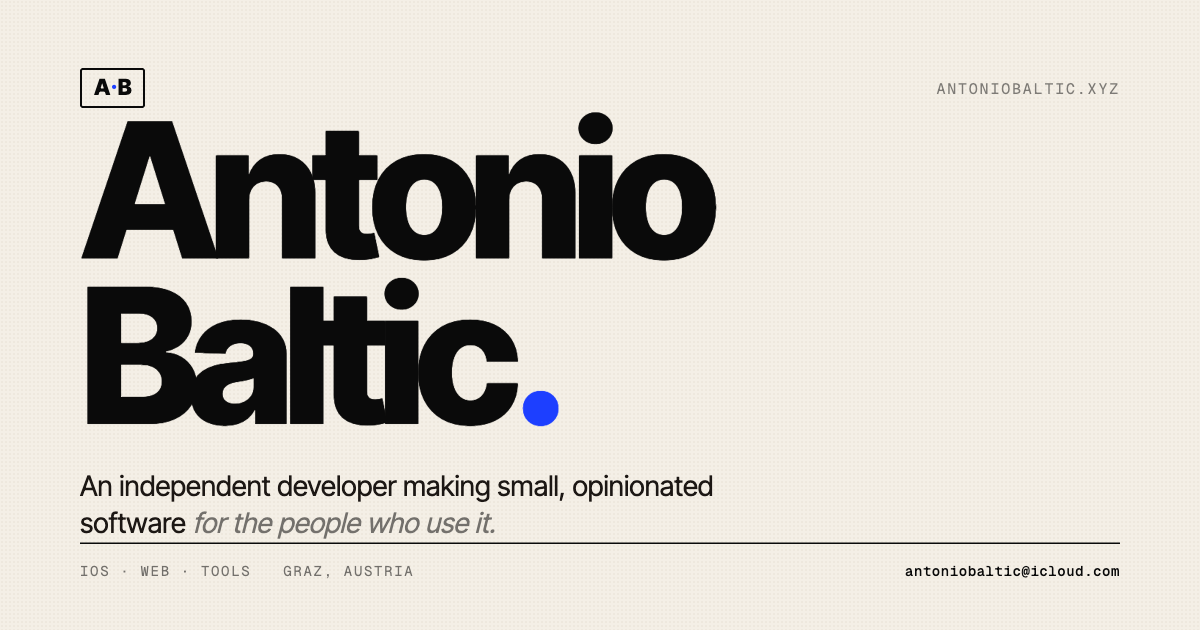
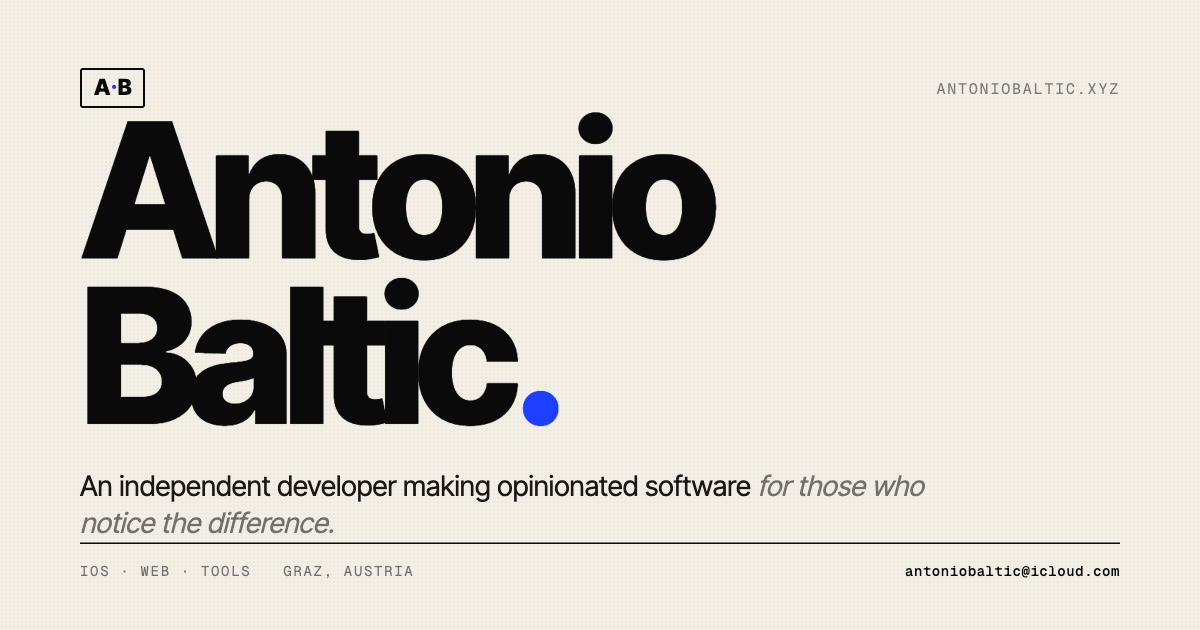
Sync tagline everywhere
Update meta description, og:description, twitter:description, JSON-LD
description, webmanifest description, and the OG image to match the
new hero tagline: "An independent developer making opinionated software
for those who notice the difference."

Changed region(s): [[0.4008, 0.754, 0.7708, 0.8143], [0.0617, 0.8143, 0.4317, 0.8444]]

diff --git a/index.html b/index.html
@@ -4,7 +4,7 @@
   <meta charset="UTF-8">
   <meta name="viewport" content="width=device-width, initial-scale=1.0">
   <title>Antonio Baltic — Portfolio</title>
-  <meta name="description" content="Antonio Baltic — independent developer making small, opinionated software. iOS, web, and tools. Based in Graz, Austria.">
+  <meta name="description" content="Antonio Baltic — independent developer making opinionated software for those who notice the difference. iOS, web, and tools. Based in Graz, Austria.">
   <meta name="author" content="Antonio Baltic">
   <meta name="robots" content="index, follow, max-image-preview:large, max-snippet:-1, max-video-preview:-1">
   <link rel="canonical" href="https://antoniobaltic.xyz/">
@@ -24,7 +24,7 @@
   <!-- Open Graph -->
   <meta property="og:site_name" content="Antonio Baltic">
   <meta property="og:title" content="Antonio Baltic — Portfolio">
-  <meta property="og:description" content="Independent developer making small, opinionated software. iOS, web, and tools.">
+  <meta property="og:description" content="Independent developer making opinionated software for those who notice the difference. iOS, web, and tools.">
   <meta property="og:url" content="https://antoniobaltic.xyz/">
   <meta property="og:type" content="website">
   <meta property="og:locale" content="en_US">
@@ -37,7 +37,7 @@
   <!-- Twitter / X -->
   <meta name="twitter:card" content="summary_large_image">
   <meta name="twitter:title" content="Antonio Baltic — Portfolio">
-  <meta name="twitter:description" content="Independent developer making small, opinionated software. iOS, web, and tools.">
+  <meta name="twitter:description" content="Independent developer making opinionated software for those who notice the difference. iOS, web, and tools.">
   <meta name="twitter:image" content="https://antoniobaltic.xyz/antoniobaltic_ogimage.png">
   <meta name="twitter:image:alt" content="Antonio Baltic — independent developer, iOS · Web · Tools, Graz, Austria">
 
@@ -50,7 +50,7 @@
     "url": "https://antoniobaltic.xyz/",
     "image": "https://antoniobaltic.xyz/antoniobaltic_ogimage.png",
     "jobTitle": "Independent Developer",
-    "description": "Independent developer making small, opinionated software across iOS, web, and tools.",
+    "description": "Independent developer making opinionated software for those who notice the difference. Works across iOS, web, and tools.",
     "email": "mailto:antoniobaltic@icloud.com",
     "address": {
       "@type": "PostalAddress",
@@ -99,7 +99,7 @@
       </h1>
 
       <p class="hero-tag">
-        An independent developer making small, opinionated software <em>for the people who use it.</em>
+        An independent developer making opinionated software <em>for those who notice the difference.</em>
       </p>
 
       <!-- Bio strip -->
